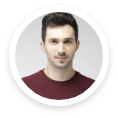
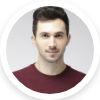
chnages

diff --git a/public/assets/frontend/css/portfolio.css b/public/assets/frontend/css/portfolio.css
@@ -212,6 +212,18 @@ visibility: visible;
 border: 2px solid white;
 cursor: pointer;
 }
+/* input:disabled:after {
+
+  /* background-color: #d1d3d1 !important; */
+  /* background-color:  orangered !important;  */
+input:disabled:after {
+  background-color:  orangered !important; 
+}
+
+input:disabled+label{
+  background-color:  orangered !important; 
+}
+
 .dropdown-toggle-btn::after {
   display: inline-block;
   width: 0;

diff --git a/public/assets/frontend/css/utility.css b/public/assets/frontend/css/utility.css
@@ -302,6 +302,10 @@ input:-webkit-autofill:active
     padding-left: 15px !important;
     padding-right: 15px !important;
 }
+.pl-pr-125{
+  padding-left: 15px !important;
+  padding-right: 15px !important;
+  }
 .pl-0{
   padding-left: 0px !important;
 }

diff --git a/public/assets/frontend/css/carousel.css b/public/assets/frontend/css/carousel.css
@@ -34,8 +34,8 @@
   height: 94px;
   border-radius: 50px;
   position: absolute;
-  bottom: 92px;
-  right: 44px;
+  bottom: 80px;
+  right: 21px;
 }
 .borderRadius-50px{
   border-radius: 50px !important;

diff --git a/resources/views/frontend/carousels.blade.php b/resources/views/frontend/carousels.blade.php
@@ -636,7 +636,7 @@
                                         <div class="card border-0  borderRadius-10px ">
                                             <img src="{{ asset('assets/frontend/images/kitty-kat-wax-men-services.png') }}" class="card-img-top" alt="...">
                                             <div class="card-body p-0 m-0 bg-transparent circle card_circle ">
-                                                <img src="{{ asset('assets/frontend/images/19uk2-superdry-men-maroon-printed-round-neck-sports-t-shirt_500x500_0.png') }}" alt="" srcset="">
+                                                <img src="{{ asset('assets/frontend/images/19uk2-superdry-men-maroon-printed-round-neck-sports-t-shirt_500x500_0.png') }}" class="img-fluid"  alt="" srcset="">
                                             </div>
                                             <div class="border-0 name_Sep cl-ffffff f-26 robotoMedium pl-3">Dino Allen</div>
                                             <div class="card-footer border-0 robotoRegular robotoRegular bblr bbrr  bg-ffffff pt-4 pb-4">
@@ -653,7 +653,7 @@
                                         <div class="card border-0  borderRadius-10px ">
                                             <img src="{{ asset('assets/frontend/images/siskas-hc.png') }}" class="card-img-top" alt="...">
                                             <div class="card-body p-0 m-0 bg-transparent circle card_circle ">
-                                                <img src="{{ asset('assets/frontend/images/siskas-hc1.png') }}" alt="" srcset="">
+                                                <img src="{{ asset('assets/frontend/images/8.png') }}" class="img-fluid" alt="" srcset="">
                                             </div>
                                             <div class="border-0 name_Sep cl-ffffff f-26 robotoMedium pl-3">Silvester</div>
                                             <div class="card-footer robotoRegular bblr bbrr  bg-ffffff pt-4 pb-4">
@@ -670,7 +670,7 @@
                                         <div class="card border-0  borderRadius-10px ">
                                             <img src="{{ asset('assets/frontend/images/songe-dave-barbershop.png') }}" class="card-img-top" alt="...">
                                             <div class="card-body p-0 m-0 bg-transparent circle card_circle ">
-                                                <img src="{{ asset('assets/frontend/images/songe-dave-barbershop1.png') }}" alt="" srcset="">
+                                                <img src="{{ asset('assets/frontend/images/1.png') }}" class="img-fluid" alt="" srcset="">
                                             </div>
                                             <div class="border-0 name_Sep cl-ffffff f-26 robotoMedium pl-3">John samy</div>
                                             <div class="card-footer robotoRegular bblr bbrr  bg-ffffff pt-4 pb-4">
@@ -687,7 +687,7 @@
                                         <div class="card border-0  borderRadius-10px ">
                                             <img src="{{ asset('assets/frontend/images/d6a1d878-3804-439a-a684-0625544321d1-LastDayOut13.png') }}" class="card-img-top" alt="...">
                                             <div class="card-body p-0 m-0 bg-transparent circle card_circle ">
-                                                <img src="{{ asset('assets/frontend/images/19uk2-superdry-men-maroon-printed-round-neck-sports-t-shirt_500x500_0.png') }}" alt="" srcset="">
+                                                <img src="{{ asset('assets/frontend/images/19uk2-superdry-men-maroon-printed-round-neck-sports-t-shirt_500x500_0.png') }}" class="img-fluid" alt="" srcset="">
                                             </div>
                                             <div class="border-0 name_Sep cl-ffffff f-26 robotoMedium pl-3">Andy James</div>
                                             
@@ -1804,7 +1804,7 @@
                                         <div class="card border-0  borderRadius-10px ">
                                             <img src="{{ asset('assets/frontend/images/unnamed (2).png') }}" class="card-img-top" alt="...">
                                             <div class="card-body p-0 m-0 bg-transparent circle card_circle ">
-                                                <img src="{{ asset('assets/frontend/images/unnamed (1).png') }}" alt="" srcset="">
+                                                <img src="{{ asset('assets/frontend/images/new1.png') }}" alt="" srcset="">
                                             </div>
                                             <div class="border-0 name_Sep_1 cl-ffffff f-26 robotoMedium pl-3">Dino Allen</div>
                                             <div class="card-footer border-0 robotoRegular robotoRegular bblr bbrr  bg-ffffff pt-4 ">

diff --git a/resources/views/frontend/appointments.blade.php b/resources/views/frontend/appointments.blade.php
@@ -131,7 +131,7 @@
                 <div class="row m-0 pt-4">
                     <div class="col-md-12 p-0 justify-content-between d-flex">
                         <div class="robotoRegular cl-878787 col-md-2 text-center p-0">
-                            <label class="border pt-2 rounded w-100 pb-2">
+                            <label class="border pt-2 rounded w-100 pb-2" >
                                 <input type="radio" name="time" class="bg-success btnclass" @foreach ($appointments as $appointment)
                                     @if ($appointment->time == '9:00 AM')
                                         disabled
